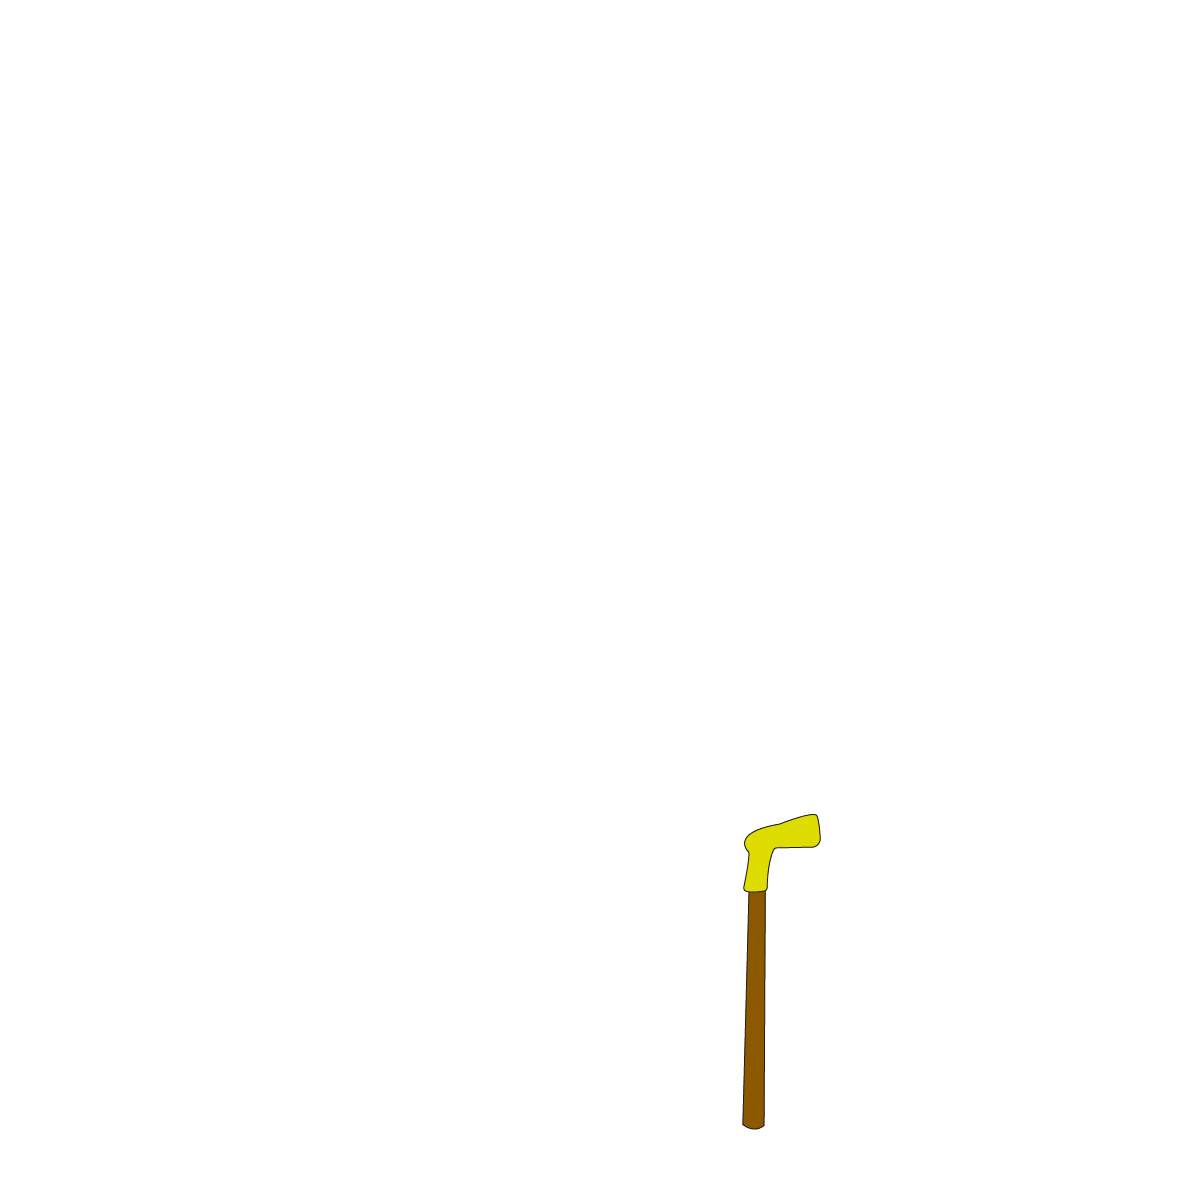
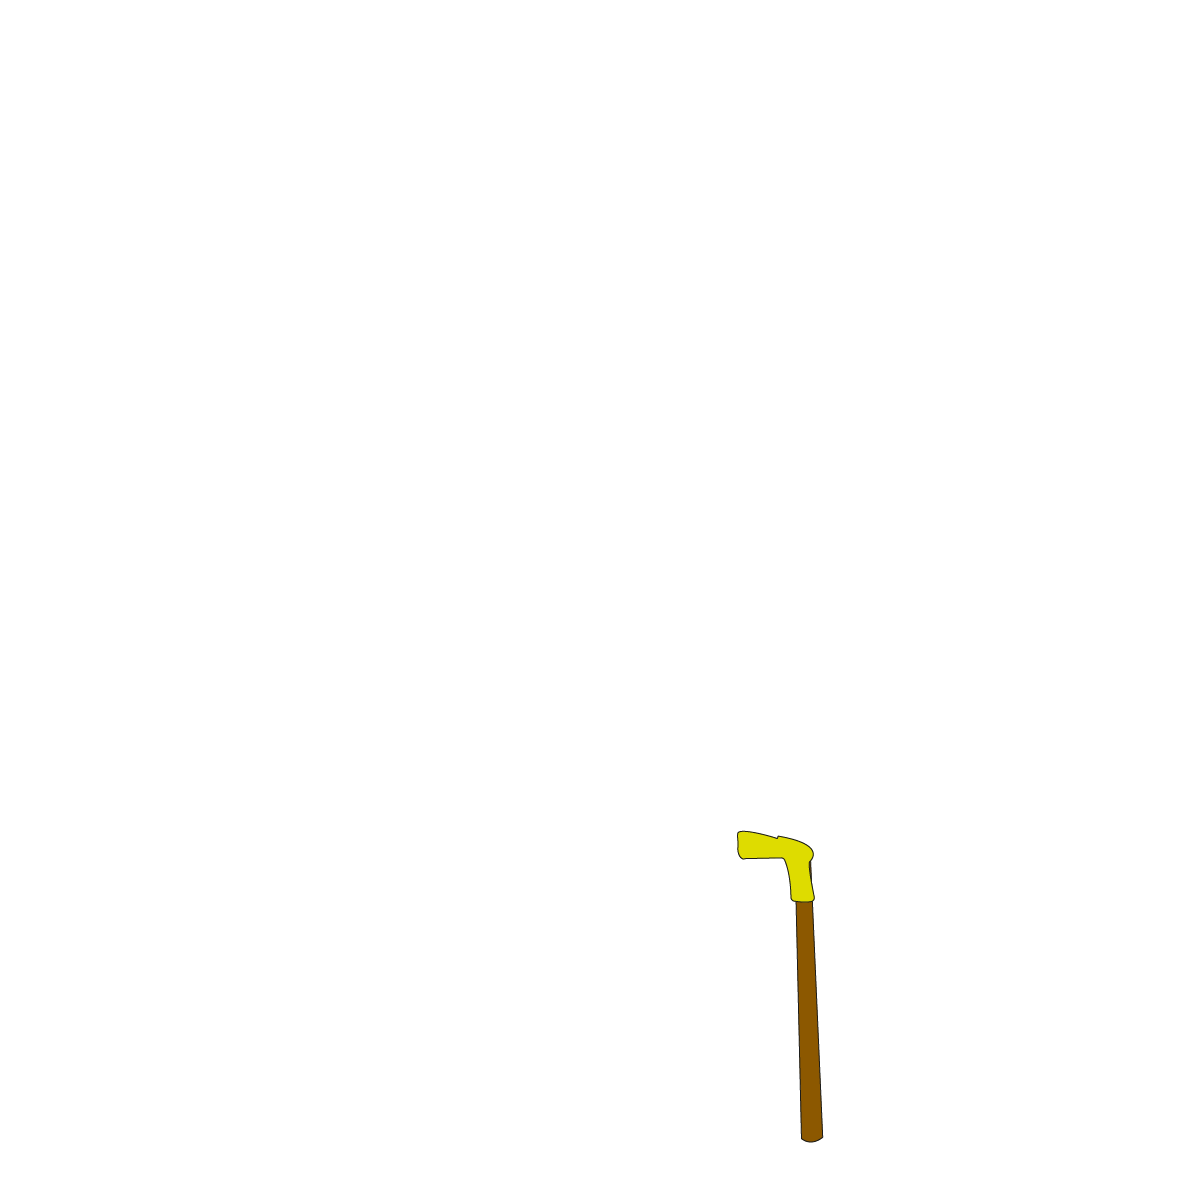
Adapt the walking stick to not cross the shoes

Changed region(s): [[0.6167, 0.6783, 0.7092, 0.9558]]

diff --git a/generate_from_config.py b/generate_from_config.py
@@ -1,12 +1,12 @@
 import os
 from image_generator import _generate_single_image
 
-gender = 'female'
+gender = 'male'
 color = 'Blue'
-skin = 'Skeleton'
+skin = 'choco'
 
 # filename = f'hair_{color}_Chinballs_{skin}_{gender}.png'
-filename = f'rubinleft.png'
+filename = f'male_stick.png'
 genderpath = os.path.join('assets', gender)
 
 
@@ -25,7 +25,7 @@ def main():
         '10_Hats\\FezDefault.png',
         f'11_Headdeko\\HAIR_Sheep_{color}.png',
         f'12_Lefthand-Back\\SKIN_HOLDSTRAIGHT_{skin}.png',
-        '13_Lefthand-Thing\\MULTI-SKIN_GiraffaDefault_HOLDSTRAIGHT.png',
+        '13_Lefthand-Thing\\MULTI-SKIN_WalkingstickWhite_HOLDSTRAIGHT.png',
         f'14_Lefthand-Front\\SKIN_HOLDSTRAIGHT_{skin}.png',
         f'15_Righthand-Back\\SKIN_HOLDSTRAIGHT_{skin}.png',
         '16_Righthand-Thing\\MULTI-SKIN_PennonMint_HOLDSTRAIGHT.png',
@@ -38,15 +38,15 @@ def main():
         '02_Clothes\\IsNakedShoes_CocktaildressSalmon.png',
         f'03_Shoes\\ConverseBlack.png',
         f'04_Hair\\HAIR_Standard_{color}.png',
-        # '05_Mouth\\IsAlive_Fangs_Basic.png',
-        'Skeleton_Mouth\\BlingGold.png',
-        # '06_Eyes\\IsAlive_ShiningPurple_Basic.png',
-        'Skeleton_Eyes\\Rubinleft.png',
+        '05_Mouth\\IsAlive_Fangs_Basic.png',
+        # 'Skeleton_Mouth\\BlingGold.png',
+        '06_Eyes\\IsAlive_ShiningPurple_Basic.png',
+        # 'Skeleton_Eyes\\Rubinleft.png',
         '07_Facedeko\\Tattoo.png',
         # '09_Hats\\WizardhatRed.png',
         f'10_Headdeko\\SKIN_ElvenearsAndHornsWhite_{skin}.png',
         f'11_Lefthand-Back\\SKIN_HOLDSTRAIGHT_{skin}.png',
-        '12_Lefthand-Thing\\MULTI-SKIN_ElephantBrown_HOLDSTRAIGHT.png',
+        '12_Lefthand-Thing\\MULTI-SKIN_WalkingstickWhite_HOLDSTRAIGHT.png',
         f'13_Lefthand-Front\\SKIN_HOLDSTRAIGHT_{skin}.png',
         f'14_Righthand-Back\\SKIN_HOLDSTRAIGHT_{skin}.png',
         '15_Righthand-Thing\\MULTI-SKIN_MagicWandWhite_HOLDSTRAIGHT.png',
